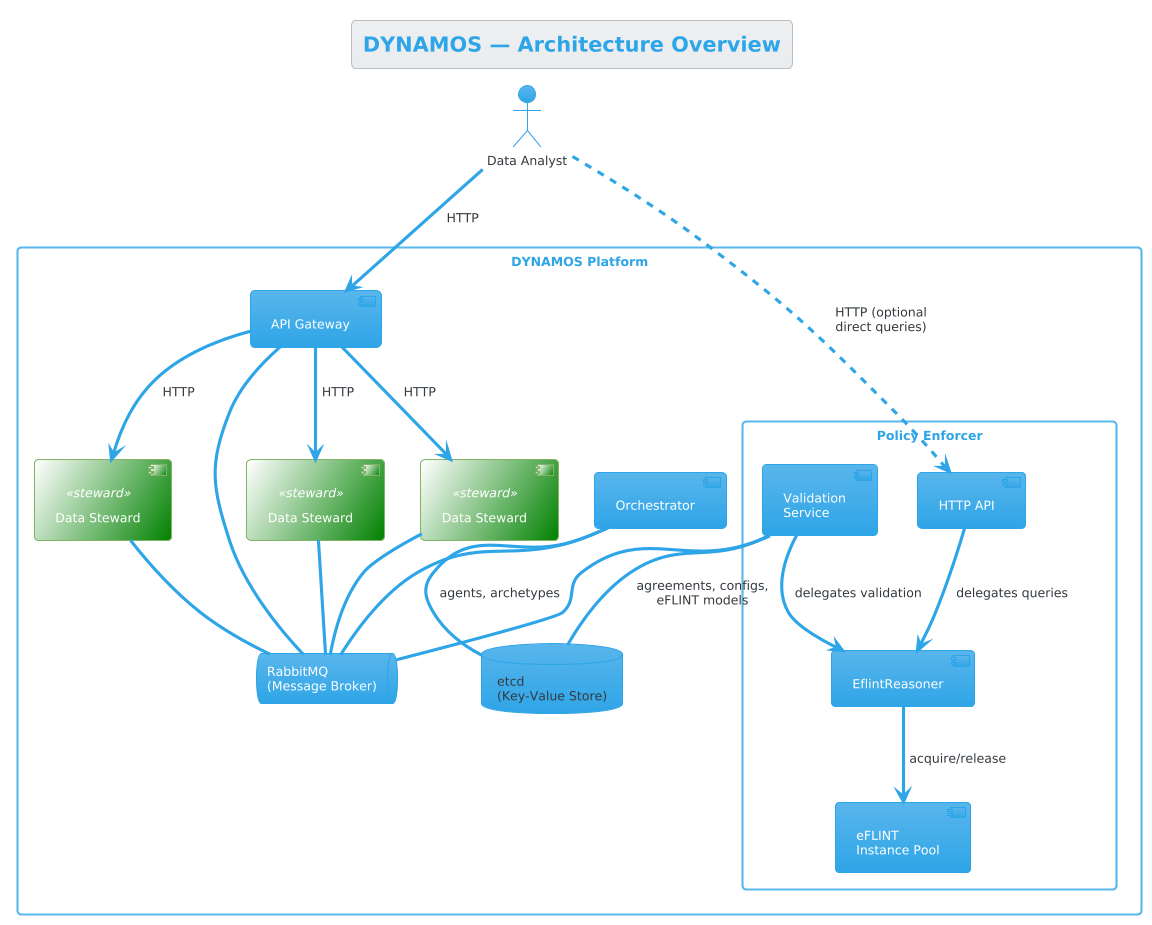
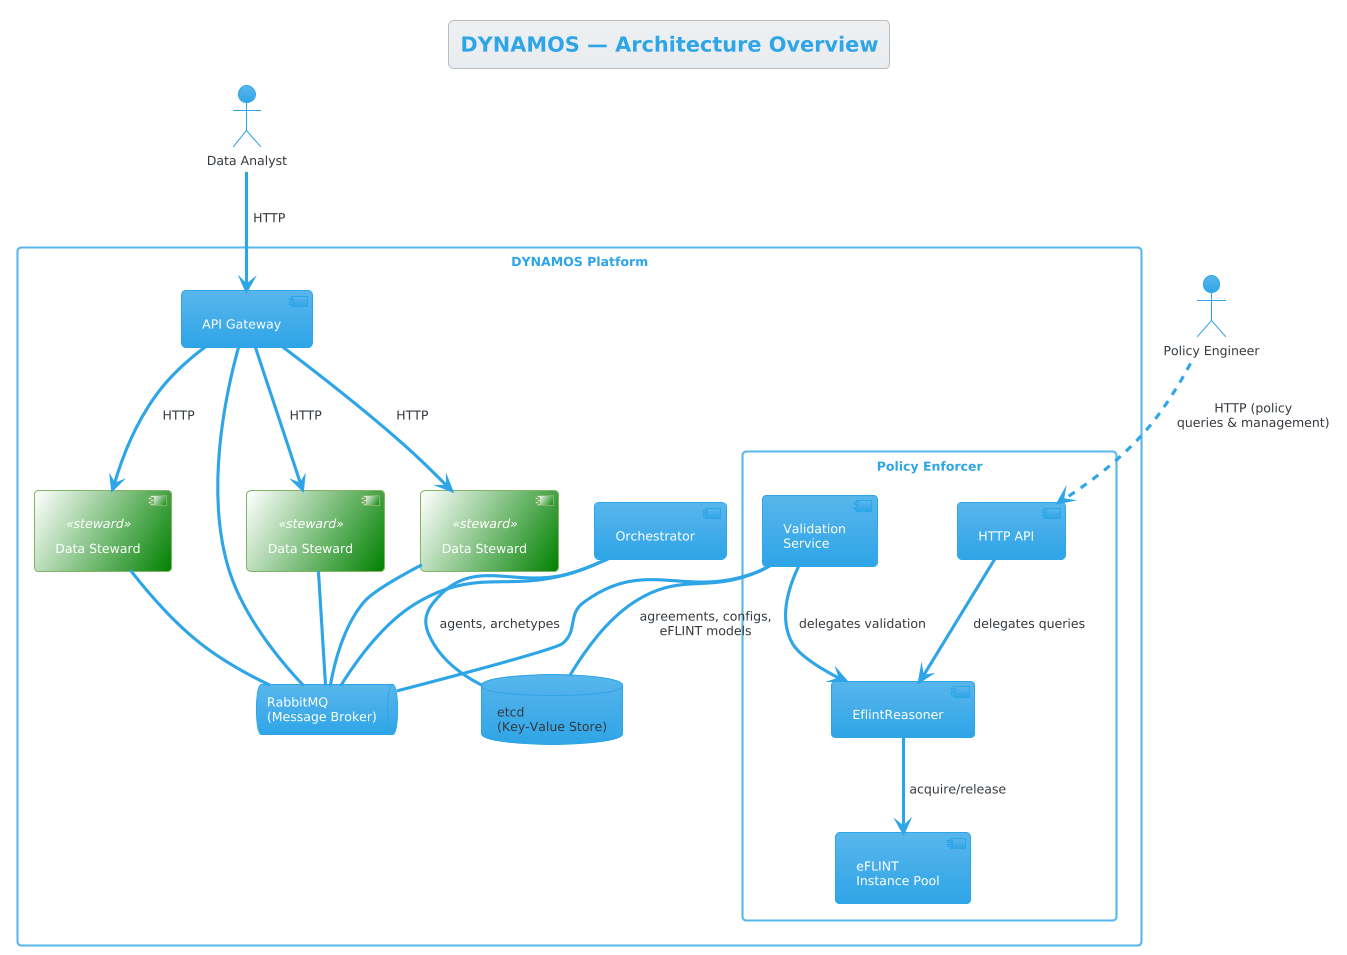
Enhance request approval diagrams with simplified and detailed views of the Policy Enforcer's dual-strategy validation process. Added new sequence diagrams to illustrate the overall flow and internal logic for both eFLINT and legacy validation strategies. Updated actor roles in the architecture diag

diff --git a/docs/diagrams/request_approval_diagrams.md b/docs/diagrams/request_approval_diagrams.md
@@ -458,13 +458,88 @@ end note
 @enduml
 ```
 
-### 2.3 Policy Enforcer — Dual-Strategy Validation
+### 2.3 Policy Enforcer — Dual-Strategy Validation (Simplified)
+
+A condensed view that shows the overall flow without expanding the internal
+details of each strategy. For the eFLINT pool lifecycle and instance
+interaction, see [§2.4](#24-policy-enforcer--eflint-pool-acquirerelease-cycle).
+
+```plantuml
+@startuml Sequence - Policy Enforcer (Simplified)
+!theme cerulean
+
+title Policy Enforcer — Dual-Strategy Sequence (Simplified)
+
+queue "RabbitMQ\npolicyEnforcer-in" as MQ_PE
+participant "handleRequestApproval()\n[consume.go]" as HandleRA
+participant "ValidationService" as ValSvc
+participant "resolveStrategy()" as Resolve
+database "etcd" as etcd
+
+participant "LegacyValidation\nStrategy" as Legacy
+participant "EflintValidation\nStrategy" as Eflint
+
+participant "Auth Generator" as Auth
+queue "RabbitMQ\norchestrator-in" as MQ_Orch
+
+MQ_PE -> HandleRA : Consume requestApproval
+activate HandleRA
+
+HandleRA -> ValSvc : ValidateRequest(request)
+activate ValSvc
+
+loop For each dataProvider (concurrent goroutines)
+    ValSvc -> Resolve : resolveStrategy(provider)
+    activate Resolve
+    Resolve -> etcd : GET /policyEnforcer/configs/{provider}
+    etcd --> Resolve : ProviderValidationConfig
+    deactivate Resolve
+
+    alt config.strategy == "eflint" && eFLINT available
+        ValSvc -> Eflint : Validate(steward, userName)
+        activate Eflint
+        Eflint -> etcd : Load eFLINT model & query facts
+        Eflint --> ValSvc : ValidationResult
+        deactivate Eflint
+
+    else config.strategy == "legacy" or fallback
+        ValSvc -> Legacy : Validate(steward, userName)
+        activate Legacy
+        Legacy -> etcd : Load agreement & check user access
+        Legacy --> ValSvc : ValidationResult
+        deactivate Legacy
+    end
+end
+
+ValSvc -> ValSvc : processValidationResults()\nPopulate Valid/Invalid providers
+
+alt ValidDataproviders > 0
+    ValSvc -> Auth : Generate auth token
+    Auth --> ValSvc : Auth token
+    ValSvc -> ValSvc : RequestApproved = true
+else No valid providers
+    ValSvc -> ValSvc : RequestApproved = false
+end
+
+ValSvc --> HandleRA : ValidationResponse
+deactivate ValSvc
+
+HandleRA -> MQ_Orch : SendValidationResponse()\n→ orchestrator-in
+deactivate HandleRA
+
+@enduml
+```
+
+### 2.3.1 Policy Enforcer — Dual-Strategy Validation (Detailed)
+
+The fully expanded version showing internal logic for both strategies,
+including the eFLINT pool acquire/release and legacy agreement lookups.
 
 ```plantuml
 @startuml Sequence - Policy Enforcer
 !theme cerulean
 
-title Policy Enforcer — Dual-Strategy Sequence
+title Policy Enforcer — Dual-Strategy Sequence (Detailed)
 
 queue "RabbitMQ\npolicyEnforcer-in" as MQ_PE
 participant "handleIncomingMessages()\n[consume.go]" as Router
@@ -967,6 +1042,7 @@ skinparam component {
 }
 
 actor "Data Analyst" as analyst
+actor "Policy Engineer" as engineer
 
 rectangle "DYNAMOS Platform" {
 
@@ -990,9 +1066,9 @@ rectangle "DYNAMOS Platform" {
     queue "RabbitMQ\n(Message Broker)" as rabbit
 }
 
-' External actor
+' External actors
 analyst --> api : HTTP
-analyst ..> pe_http : HTTP (optional\ndirect queries)
+engineer ..> pe_http : HTTP (policy\nqueries & management)
 
 ' Inter-service communication via RabbitMQ
 api -- rabbit